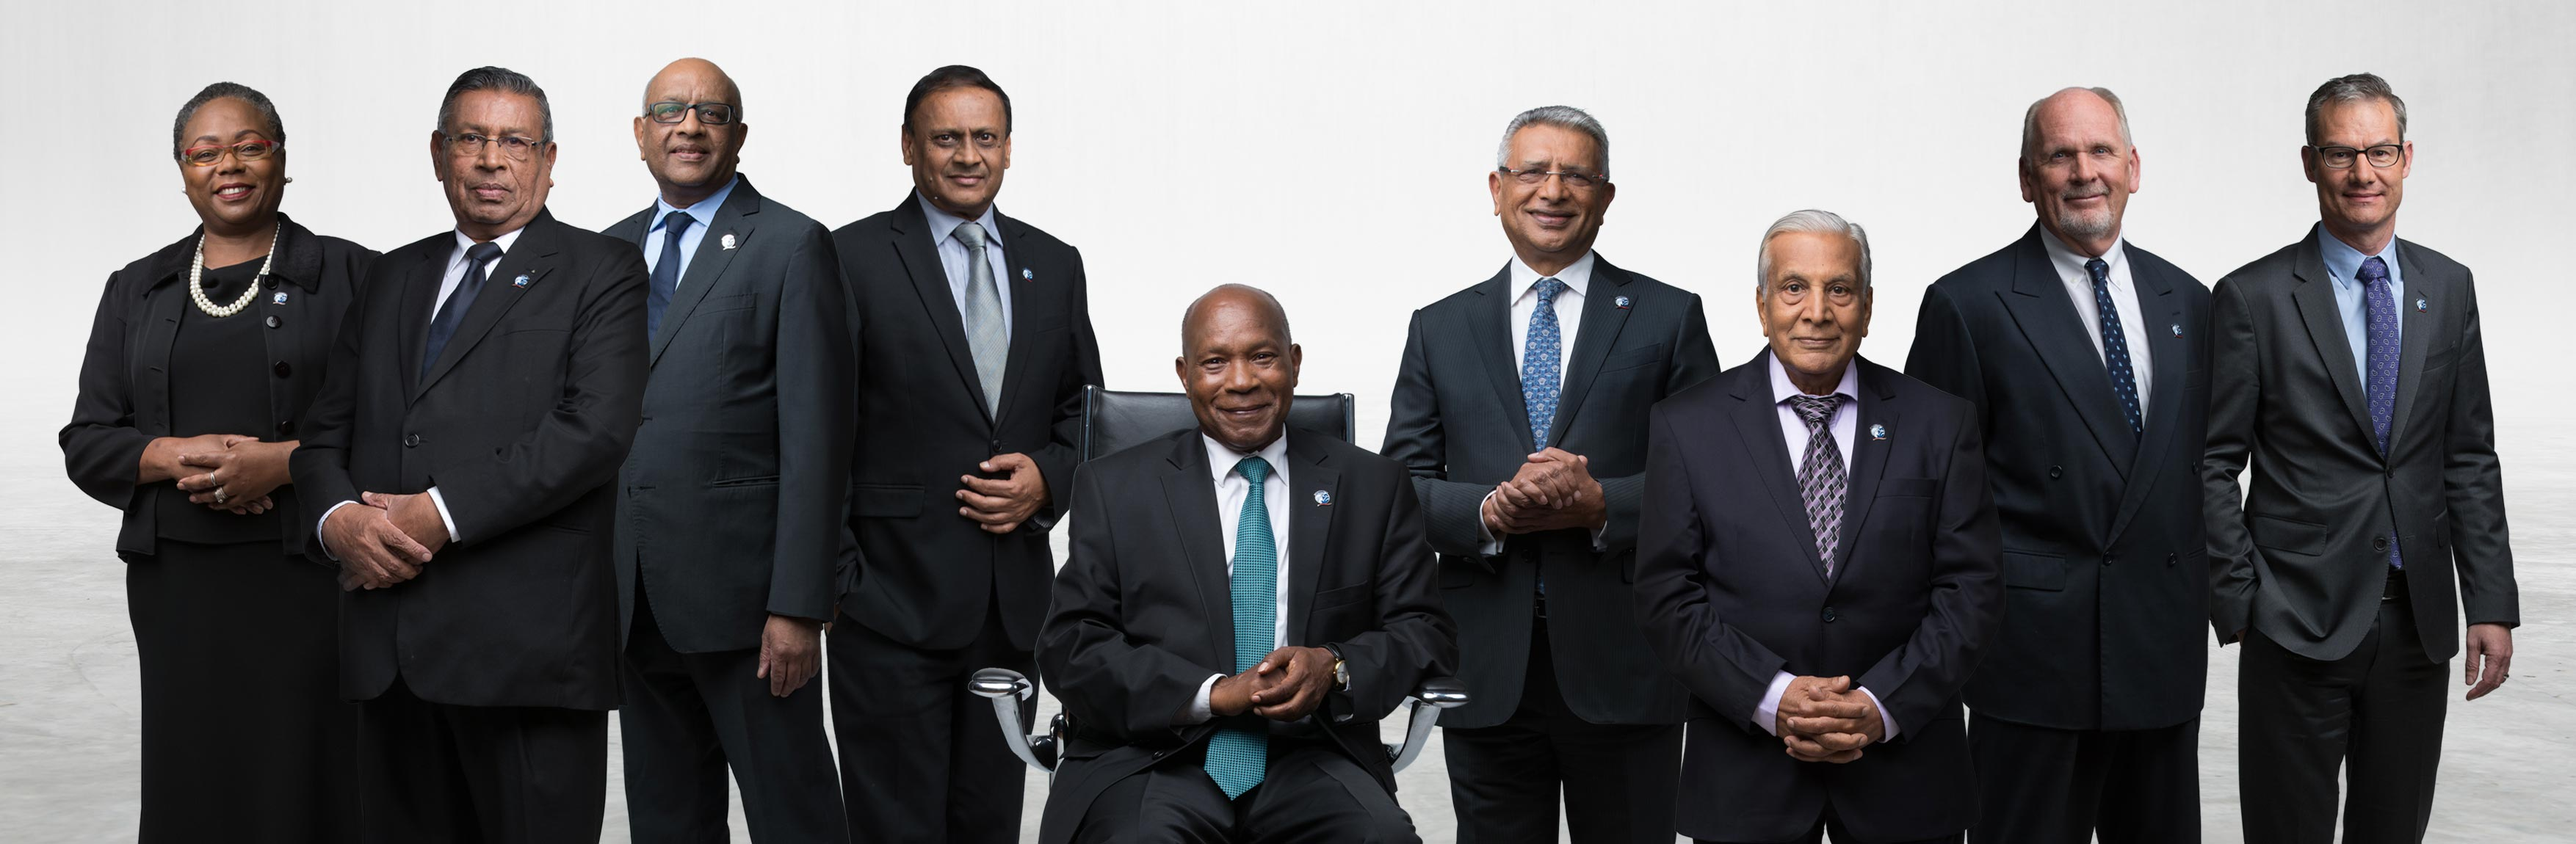
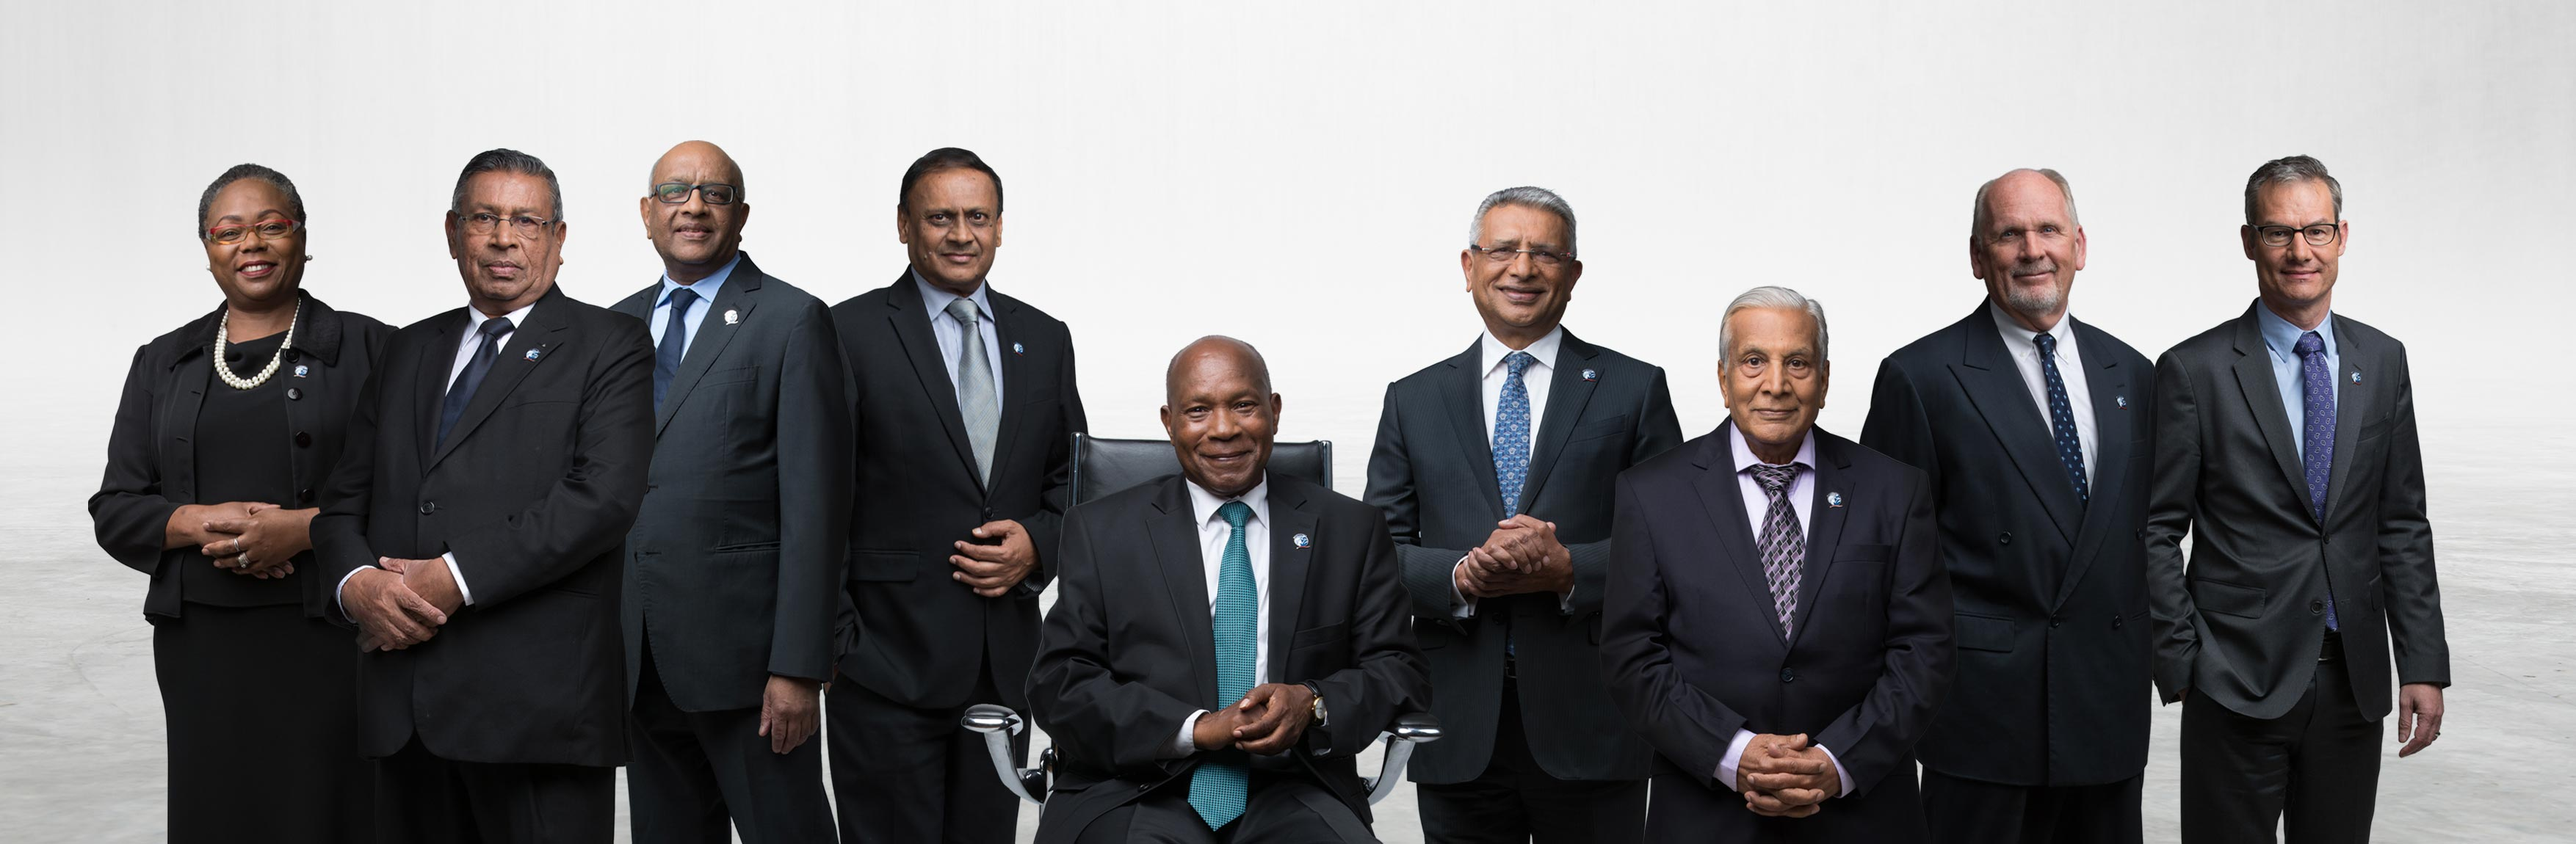
board images aligment and resizing

diff --git a/css/draft.css b/css/draft.css
@@ -682,7 +682,7 @@ a:focus {
     background-size: cover;
     background-repeat: no-repeat;
     background-position: center;
-    margin-top: 3%;
+    margin-top: 2.5%;
 }
 
 .banner-motor {

diff --git a/leadership.php b/leadership.php
@@ -226,7 +226,7 @@
         <div class="uk-modal-dialog">
             <button class="uk-modal-close-full uk-close-large" type="button" uk-close></button>
             <div class="uk-grid-collapse uk-child-width-1-2@s uk-flex-middle" uk-grid>
-                <div class="uk-background-cover" style="background-image: url('img/board/ashok.jpg');"
+                <div class="uk-background-cover" style="background-image: url('img/board/1ashok.jpg');"
                     uk-height-viewport></div>
                 <div class="uk-padding-large">
                     <h1>
@@ -259,7 +259,7 @@
         <div class="uk-modal-dialog">
             <button class="uk-modal-close-full uk-close-large" type="button" uk-close></button>
             <div class="uk-grid-collapse uk-child-width-1-2@s uk-flex-middle" uk-grid>
-                <div class="uk-background-cover" style="background-image: url('img/board/daniel.jpg');"
+                <div class="uk-background-cover" style="background-image: url('img/board/1daniel.jpg');"
                     uk-height-viewport></div>
                 <div class="uk-padding-large">
                     <h1>
@@ -286,7 +286,7 @@
         <div class="uk-modal-dialog">
             <button class="uk-modal-close-full uk-close-large" type="button" uk-close></button>
             <div class="uk-grid-collapse uk-child-width-1-2@s uk-flex-middle" uk-grid>
-                <div class="uk-background-cover" style="background-image: url('img/board/mary.jpg');"
+                <div class="uk-background-cover" style="background-image: url('img/board/1mary.jpg');"
                     uk-height-viewport></div>
                 <div class="uk-padding-large">
                     <h1>
@@ -313,7 +313,7 @@
         <div class="uk-modal-dialog">
             <button class="uk-modal-close-full uk-close-large" type="button" uk-close></button>
             <div class="uk-grid-collapse uk-child-width-1-2@s uk-flex-middle" uk-grid>
-                <div class="uk-background-cover" style="background-image: url('img/board/richard.jpg');"
+                <div class="uk-background-cover" style="background-image: url('img/board/1richard.jpg');"
                     uk-height-viewport></div>
                 <div class="uk-padding-large">
                     <h1>
@@ -344,7 +344,7 @@
         <div class="uk-modal-dialog">
             <button class="uk-modal-close-full uk-close-large" type="button" uk-close></button>
             <div class="uk-grid-collapse uk-child-width-1-2@s uk-flex-middle" uk-grid>
-                <div class="uk-background-cover" style="background-image: url('img/board/pratul.jpg');"
+                <div class="uk-background-cover" style="background-image: url('img/board/1pratul.jpg');"
                     uk-height-viewport></div>
                 <div class="uk-padding-large">
                     <h1>
@@ -373,7 +373,7 @@
         <div class="uk-modal-dialog">
             <button class="uk-modal-close-full uk-close-large" type="button" uk-close></button>
             <div class="uk-grid-collapse uk-child-width-1-2@s uk-flex-middle" uk-grid>
-                <div class="uk-background-cover" style="background-image: url('img/board/smshah.jpg');"
+                <div class="uk-background-cover" style="background-image: url('img/board/1smshah.jpg');"
                     uk-height-viewport></div>
                 <div class="uk-padding-large">
                     <h1>
@@ -406,7 +406,7 @@
         <div class="uk-modal-dialog">
             <button class="uk-modal-close-full uk-close-large" type="button" uk-close></button>
             <div class="uk-grid-collapse uk-child-width-1-2@s uk-flex-middle" uk-grid>
-                <div class="uk-background-cover" style="background-image: url('img/board/pjshah.jpg');"
+                <div class="uk-background-cover" style="background-image: url('img/board/1pjshah.jpg');"
                     uk-height-viewport></div>
                 <div class="uk-padding-large">
                     <h1>
@@ -433,7 +433,7 @@
         <div class="uk-modal-dialog">
             <button class="uk-modal-close-full uk-close-large" type="button" uk-close></button>
             <div class="uk-grid-collapse uk-child-width-1-2@s uk-flex-middle" uk-grid>
-                <div class="uk-background-cover" style="background-image: url('img/board/piyush.jpg');"
+                <div class="uk-background-cover" style="background-image: url('img/board/1piyush.jpg');"
                     uk-height-viewport></div>
                 <div class="uk-padding-large">
                     <h1>
@@ -460,7 +460,7 @@
         <div class="uk-modal-dialog">
             <button class="uk-modal-close-full uk-close-large" type="button" uk-close></button>
             <div class="uk-grid-collapse uk-child-width-1-2@s uk-flex-middle" uk-grid>
-                <div class="uk-background-cover" style="background-image: url('img/board/reto.jpg');"
+                <div class="uk-background-cover" style="background-image: url('img/board/1reto.jpg');"
                     uk-height-viewport></div>
                 <div class="uk-padding-large">
                     <h1>
